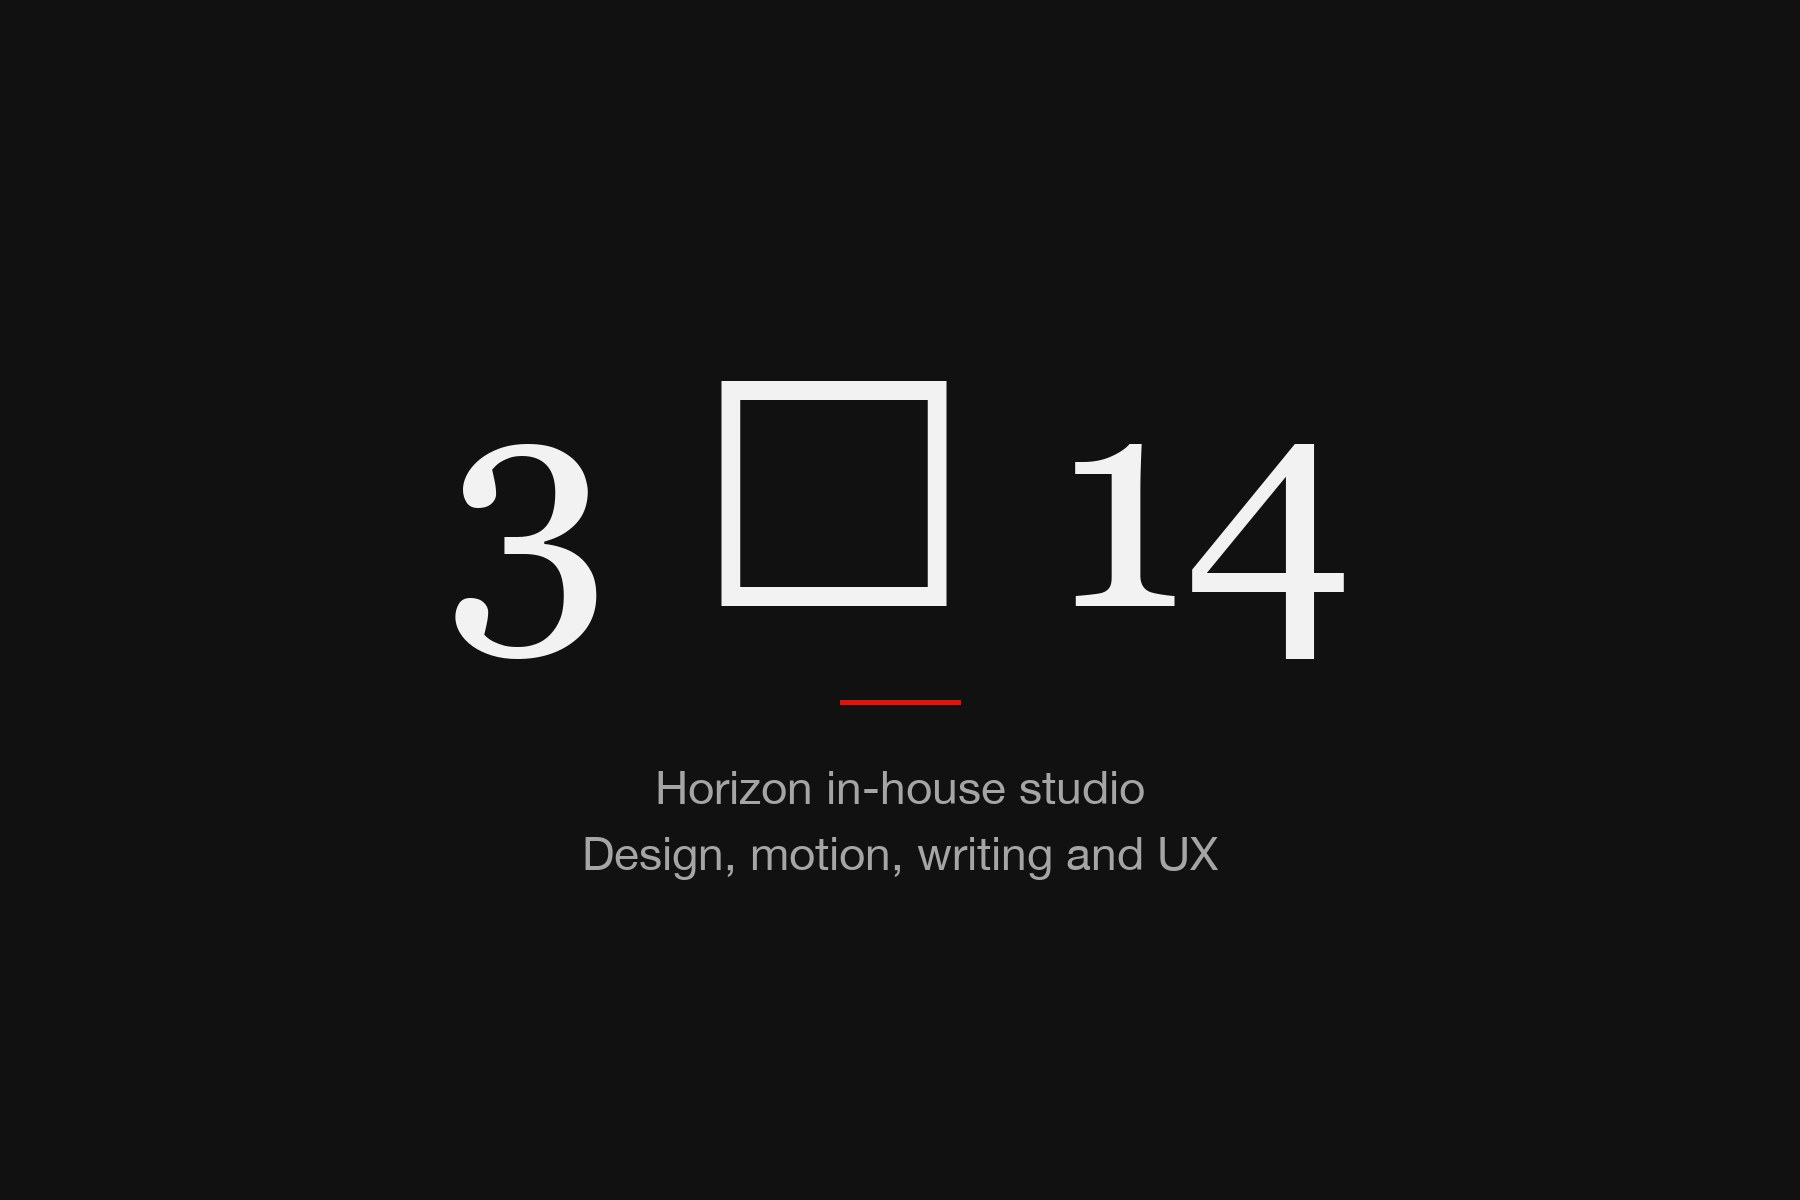
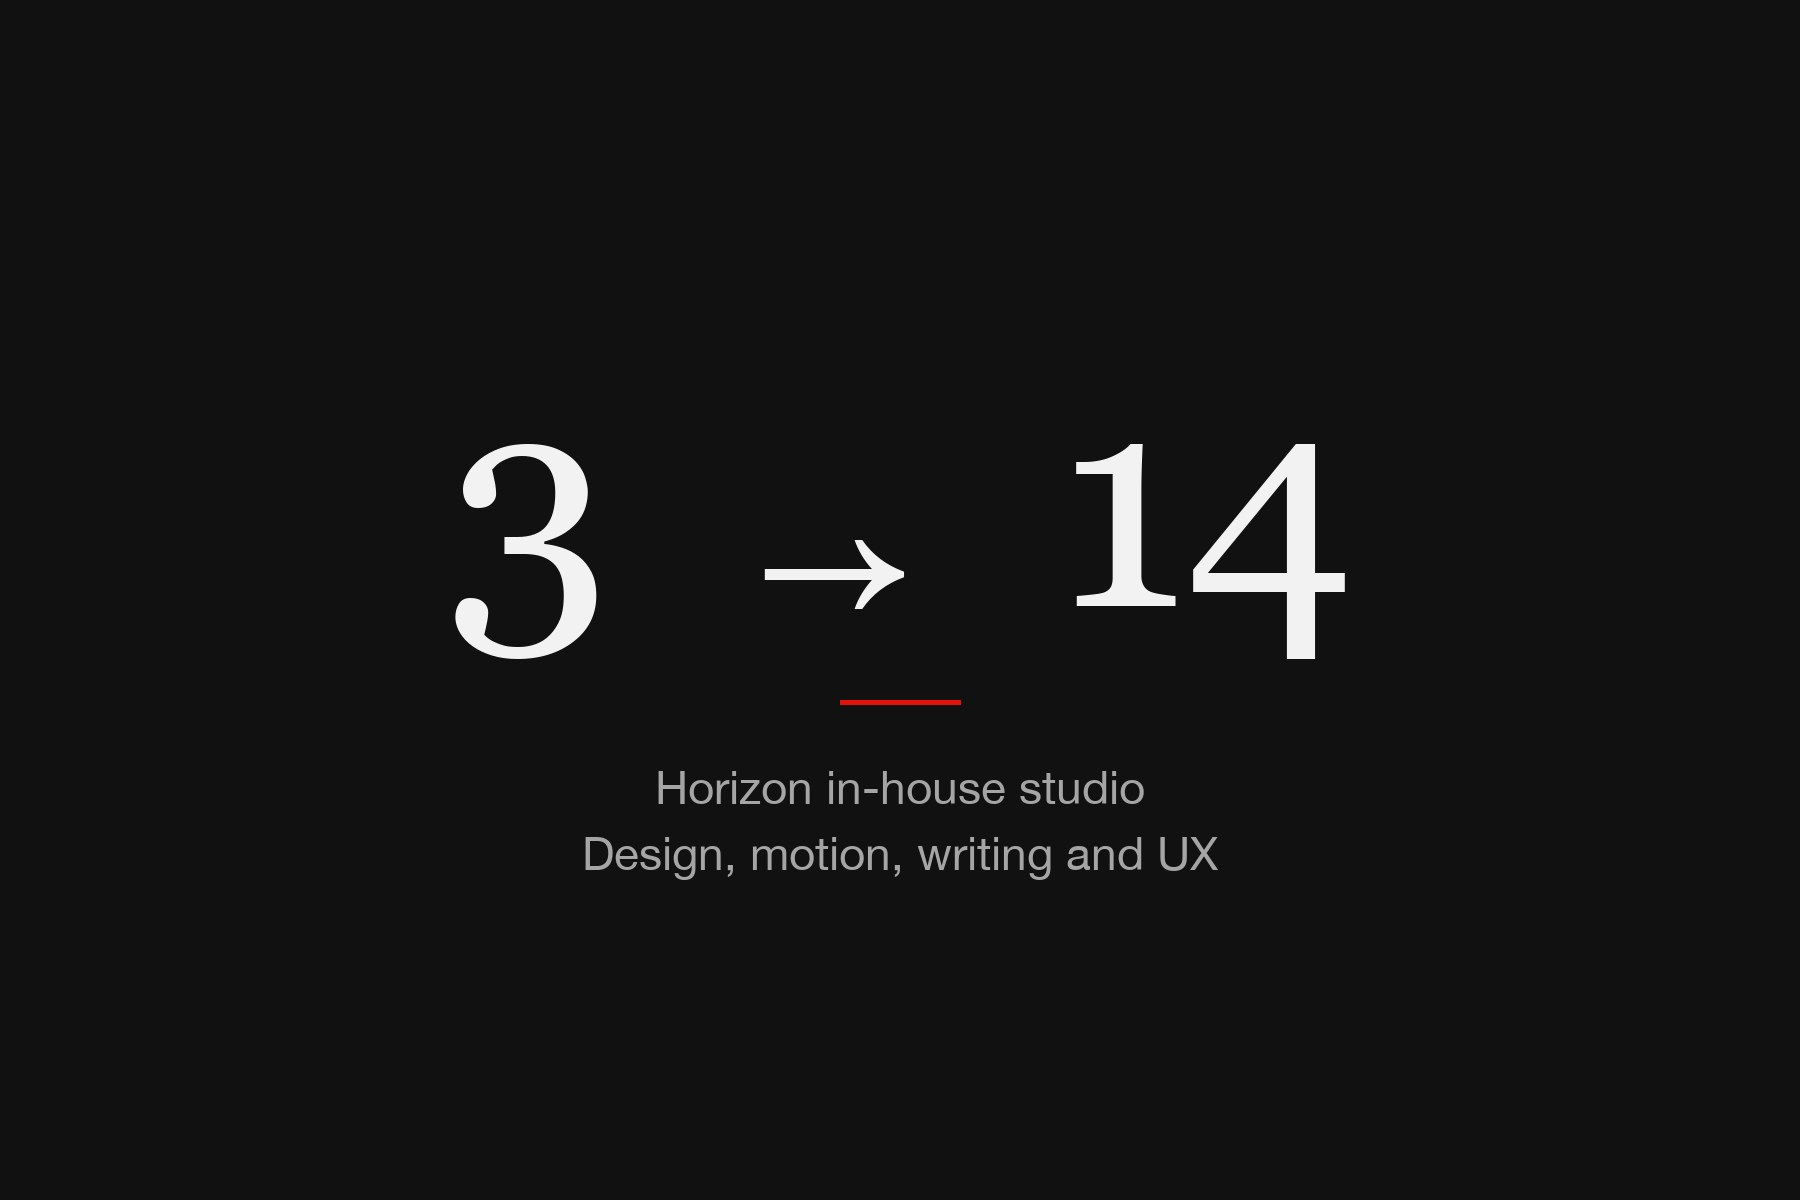
Fix the arrow on the Horizon 3 to 14 card

Changed region(s): [[0.3733, 0.3083, 0.5289, 0.5242]]

diff --git a/1on1/sw.js b/1on1/sw.js
@@ -1,7 +1,7 @@
 // Saves the whole meeting kit on first visit so it opens with no internet.
 // Bump VERSION whenever a file changes.
 importScripts('files.js');
-var VERSION = 'v10';
+var VERSION = 'v11';
 var CACHE = 'bullish-1on1-' + VERSION;
 
 function tell(msg) {
